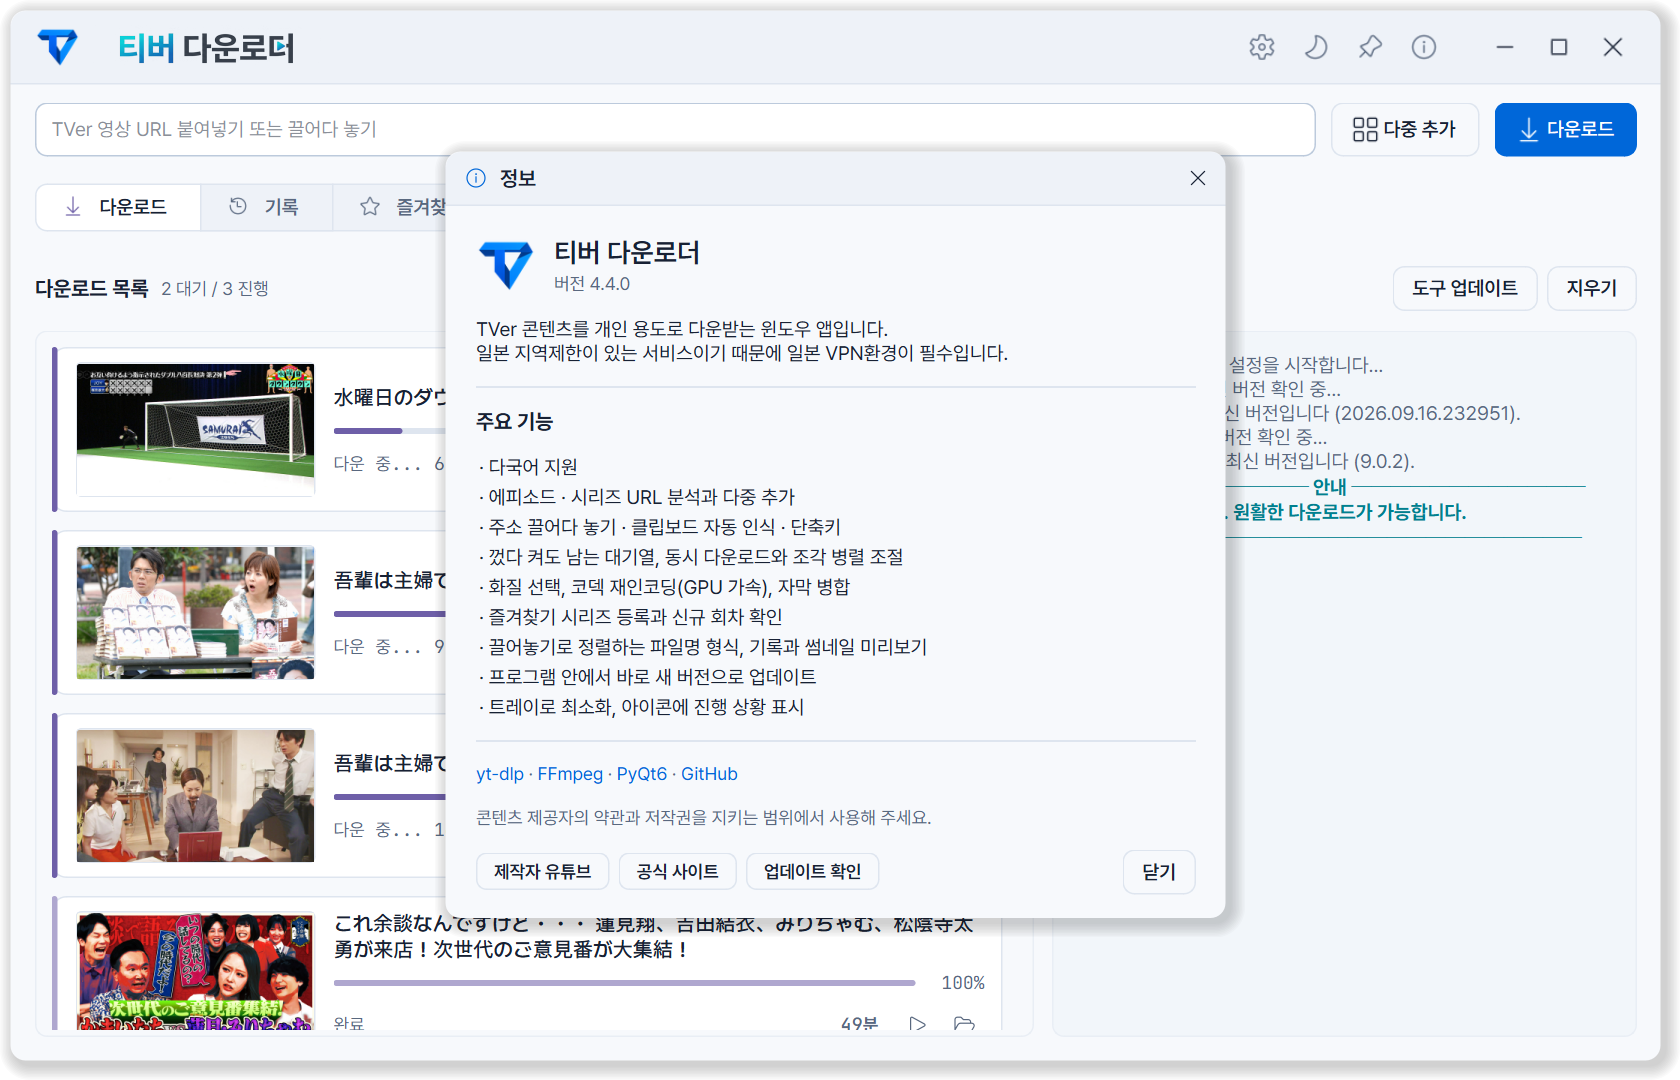
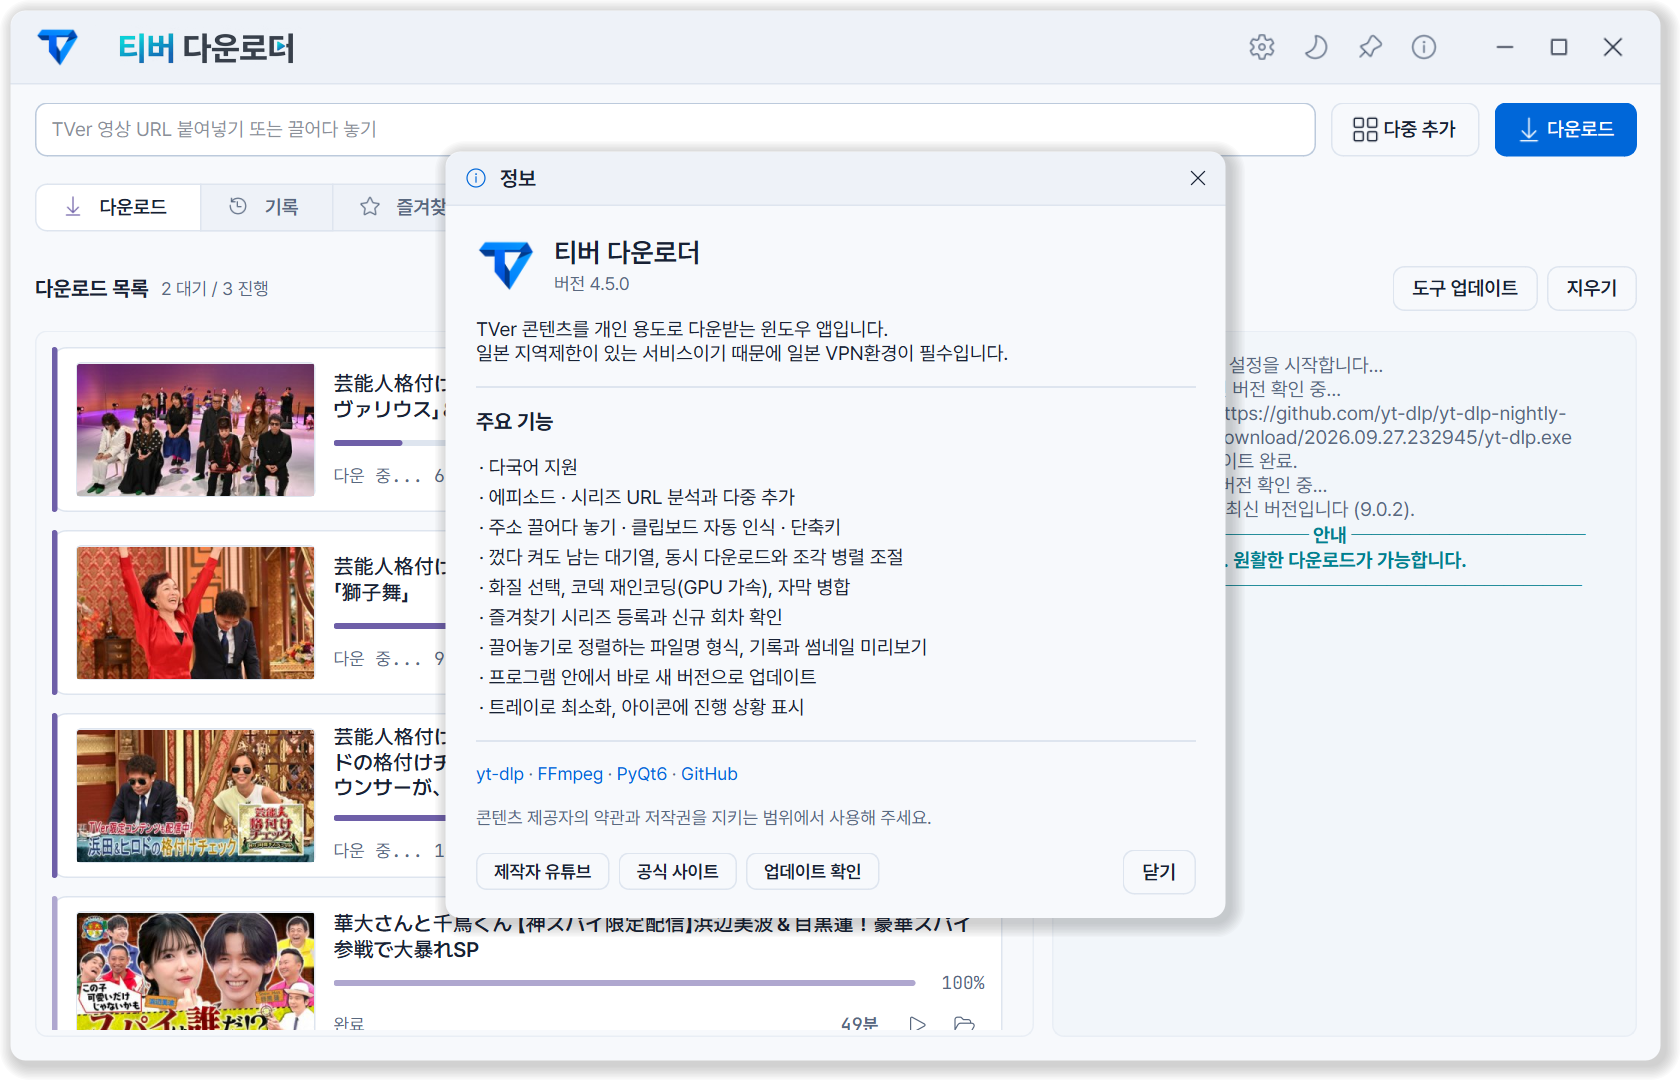
v4.5.0 — 표시기 임시 폴더 누수 수정, 옛 업데이트 안내창 정리, 타입 오류 정리
- 체크 표시·화살표 그림을 실행마다 새 tverdl_ind_* 폴더에 쓰고 지우지 않던 것을
  임시 폴더의 tverdl_indicators 하나로 모은다. 내용이 같으면 다시 쓰지 않고,
  옛 폴더는 메인 창이 켤 때 뒤쪽 스레드로 지운다(src/indicators.py).
- 그림을 만들지 못할 때 실패 모음에 check_menu가 빠져 QSS를 짓다 KeyError로
  앱이 뜨지 않던 것을 고친다.
- 쓰이지 않던 옛 업데이트 안내창(confirm_with_link, _LinkBox, maybe_show_update)과
  그 번역 키 19개(일곱 언어)를 걷어낸다.
- 앱 전역 Qt 준비(서체·팝업 모양·Qt 번역)를 src/app_setup.py로, 지역 안내를
  src/controllers/region_notice.py로, 트레이 메뉴와 툴팁을 TrayController로 옮긴다.
- Pylance standard 기준 타입 오류를 진입점과 src/ 전체에서 0건으로 맞춘다.
- README의 프로젝트 트리를 걷어내고, .gitignore를 tests/ 한 폴더 구조에 맞추고,
  소개 페이지 문구와 정보 창 스크린샷을 4.5.0에 맞춘다.

diff --git a/docs/index.html b/docs/index.html
@@ -525,7 +525,7 @@ try {
   </div>
 
   <section class="section shell" id="features" aria-labelledby="features-title">
-    <div class="section-heading reveal"><div><p class="eyebrow">Thoughtfully simple</p><h2 id="features-title">필요한 기능은 모두.<br>복잡한 과정은 가볍게.</h2></div><p>v4.4.0에서는 손상된 자료를 보존하고, 업데이트 확인부터 설치 완료까지 단계를 보여 줍니다.</p></div>
+    <div class="section-heading reveal"><div><p class="eyebrow">Thoughtfully simple</p><h2 id="features-title">필요한 기능은 모두.<br>복잡한 과정은 가볍게.</h2></div><p>주소를 가져오는 순간부터 파일이 정리될 때까지.<br>영상에 집중할 수 있도록, 나머지는 앱이 챙깁니다.</p></div>
     <div class="bento">
       <article class="card card-series reveal">
         <div><span class="card-icon"><svg class="icon" aria-hidden="true"><use href="#i-series"/></svg></span><h3>한 회부터,<br>시리즈 전체까지.</h3><p>주소를 복사하거나 끌어다 놓으세요. 시리즈에서 원하는 회차를 골라 한 번에 받고, 여러 조각을 동시에 내려받습니다.</p><span class="card-kicker">COPY. SELECT. DOWNLOAD.</span></div>

diff --git a/README.md b/README.md
@@ -225,101 +225,6 @@
 
 ---
 
-## 📁 프로젝트 트리구조
-
-```
-📦 TVerDownloader
-├─ 📄 TVerDownloader.py                     → Entry point / main window bootstrap
-├─ 📄 versioninfo.py                        → 앱 버전 한 줄 (배포 때 고치는 유일한 곳)
-├─ 📄 TVerDownloader.spec                   → PyInstaller 빌드 설정 (onedir)
-├─ 📂 src
-│  ├─ 📄 __init__.py
-│  ├─ 📄 utils.py                            → Config, 파일명 템플릿, 리소스 경로, 앱 이름 로컬라이징
-│  ├─ 📄 i18n.py                             → 화면 문구 다국어 (lang/*.ini 로드 · 언어 결정 · 계층 폴백)
-│  ├─ 📄 single_instance.py                  → 중복 실행 막기 (이름 있는 뮤텍스) · 두 번째 실행의 요청을 먼저 뜬 쪽에 전달
-│  ├─ 📄 download_manager.py                 → 대기열 및 동시 실행 관리
-│  ├─ 📄 metadata_prefetch.py                → 대기 중인 항목의 제목·썸네일 미리 받기
-│  ├─ 📄 encoding.py                         → 재인코딩 인자 선택 (코덱별 품질·오디오 비트레이트 — Qt 없음)
-│  ├─ 📄 series_parser.py                    → 시리즈 URL 분석 코디네이터
-│  ├─ 📄 input_sources.py                    → 주소가 들어오는 길 (입력창 · 클립보드 · 드래그 앤 드롭)
-│  ├─ 📄 tray_controller.py                  → 트레이 아이콘과 창의 드나듦 · 진행 상태 표시
-│  ├─ 📄 updater.py                          → GitHub releases/latest 확인
-│  ├─ 📄 self_update.py                      → 업데이트 꾸러미 검증 · 작업 폴더 · 적용 실행 · 대체 배치
-│  ├─ 📄 apply_update.py                     → 새 실행본에서 파일 교체 · 진행 알림 · 실패 시 되돌리기
-│  ├─ 📄 shortcuts.py                         → 단축키 정의·기본값·범위·충돌 판정
-│  ├─ 📄 dialogs.py                          → SettingsDialog (좌측 내비게이션 + 스택)
-│  ├─ 📄 about_dialog.py                     → 정보 창
-│  ├─ 📄 bulk_dialog.py                      → 다중 URL 추가 대화상자 (초기 목록 · 한 줄씩 추가)
-│  ├─ 📄 series_dialog.py                    → 시리즈 회차 선택 (썸네일 미리보기)
-│  ├─ 📄 message.py                          → 팔레트를 따르는 확인 창 · 알림 창
-│  ├─ 📄 autostart.py                        → 윈도우 시작 프로그램 등록/해제
-│  ├─ 📄 widgets.py                          → 다운로드/기록/즐겨찾기 카드 + 색 띠 + 빈 목록 안내
-│  ├─ 📄 thumbnails.py                       → 썸네일 스레드 풀(같은 그림은 한 번만 받음) + 디스크 캐시(목록용 사본 · 원본) + 메모리 캐시 (위젯 아님)
-│  ├─ 📄 qtparts.py                          → 공용 Qt 부품 — 팝업 모양 · 둥근 메뉴 · 2열 그리드 · 휠 스크롤
-│  ├─ 📄 window_frame.py                     → 제목 표시줄 없는 창 — 둥근 모서리 · 그림자 · 끌기 · 크기 조절 · 최대화 · 창 자리잡기
-│  ├─ 📄 history_store.py                    → urlhistory.json + 롤링 백업
-│  ├─ 📄 queue_store.py                      → queue.json — 못 받은 대기열을 다음 실행까지 남김
-│  ├─ 📄 favorites_store.py                  → favorites.json + 백업
-│  ├─ 📄 qss.py                              → 컬러 토큰(palette)과 라이트/다크 QSS 생성
-│  ├─ 📄 appicon.py                          → 앱 아이콘 — 공용 ICO 로드 + 트레이 진행률 채우기
-│  ├─ 📄 icons.py                            → UI 내부 Fluent 아이콘을 테마 색으로 렌더
-│  ├─ 📄 icons_data.py                       → 임베드된 SVG 25종 (자동 생성)
-│  ├─ 📄 indicators.py                       → 체크·라디오·스피너 화살표 이미지 생성
-│  ├─ 📄 titlelogo.py                        → 언어·테마별 헤더 로고 로드
-│  ├─ 📄 net_watch.py                        → 네트워크가 바뀔 때만 알림 (VPN을 켜면 지역 확인을 다시 부름)
-│  ├─ 📂 controllers                          → 메인 창이 도맡던 일을 성격별로 나눈 것
-│  │  ├─ 📄 __init__.py
-│  │  ├─ 📄 download_list.py                 → 다운로드 목록 탭 (카드 · 중지/제거 · 우클릭 메뉴)
-│  │  └─ 📄 library.py                       → 기록 탭과 즐겨찾기 탭 (다시 그리기 · 검색 · 스크롤로 이어 읽기)
-│  ├─ 📂 threads
-│  │  ├─ 📄 __init__.py
-│  │  ├─ 📄 ytdlp_run.py                     → 정보 조회용 yt-dlp 호출 · 통신 오류 재시도
-│  │  ├─ 📄 setup_thread.py                  → yt-dlp & FFmpeg 자동 설치 (→ bin/)
-│  │  ├─ 📄 series_parse_thread.py           → 시리즈 → 회차 목록 (키워드 제외 적용)
-│  │  ├─ 📄 download_thread.py               → 다운로드 + 병합 + 자막 + 진행률 파싱
-│  │  ├─ 📄 metadata_thread.py               → 받기 전 제목·썸네일 조회 (중간에 끊을 수 있다)
-│  │  ├─ 📄 region_thread.py                 → 현재 IP의 국가 확인 — 켤 때와 네트워크가 바뀔 때 (IP는 남기지 않음 · 실패하면 조용히)
-│  │  ├─ 📄 update_thread.py                 → 새 버전 내려받기 · 꾸러미 검증 · 압축 해제
-│  │  └─ 📄 conversion_thread.py             → 선호 코덱으로 재인코딩 (ffmpeg 호출 · 중단 처리)
-│  └─ 📂 ui
-│     ├─ 📄 __init__.py
-│     ├─ 📄 main_window_ui.py                → 메인 UI 구성 (헤더, 입력 바, 탭, 트레이)
-│     ├─ 📄 update_dialog.py                 → 업데이트 확인 · 받기 · 검증 · 압축 해제 안내
-│     ├─ 📄 apply_update_window.py           → 본체 종료 후 교체 진행 · 완료 · 실패 결과 창
-│     └─ 📄 update_flow.py                   → 업데이트 단계와 작업 목록의 공통 화면
-├─ 📂 assets
-│  ├─ 📂 fonts                                → Pretendard Variable / Pretendard JP / JetBrains Mono
-│  ├─ 📂 icons                                → Fluent SVG 원본 (빌드에는 미포함)
-│  ├─ 📂 title                                → 헤더 제목 로고 6종 (언어 3 × 테마 2)
-│  ├─ 🖼 applogo.png                          → T·V 심벌 원본 (1024px)
-│  └─ 🖼 appicon.ico                          → exe·창·트레이 공용 아이콘 (applogo.png에서 생성)
-├─ 📂 lang                                    → 번역 원본 7종 (korean · english · japanese · chinese · chinese_traditional · spanish · thai .ini)
-│                                              배포본에서는 `_internal/lang`에 실림 (고쳐 쓰는 곳)
-├─ 📄 readme.txt                              → 배포본 안내 (한국어 · 영어) · 언어 파일 만드는 법 (저장소에는 없음, 배포본 전용)
-│                                              배포할 때 `도움말(README).txt`로 이름이 바뀌어 exe 옆에 놓임
-├─ 🧾 실행 중 생성되는 항목
-│  ├─ 📂 bin/                                 → yt-dlp.exe, ffmpeg.exe, ffprobe.exe (자동 설치)
-│  ├─ 📄 downloader_config.json               → 사용자 설정
-│  ├─ 📄 urlhistory.json                      → 다운로드 기록
-│  ├─ 📄 queue.json                           → 아직 받지 못한 대기열 (다 받으면 비워짐)
-│  ├─ 📄 favorites.json                       → 즐겨찾기 시리즈
-│  ├─ 📂 thumbnails/                          → 썸네일 캐시 (`cards/` 목록용 작은 사본 · `originals/` 저장용 원본, 원본은 30일 뒤 자동 삭제)
-│  ├─ 📂 historybak/                          → 기록 백업 (최신 30개만 남김)
-│  ├─ 📂 favoritbak/                          → 즐겨찾기 백업 (최신 30개만 남김)
-│  ├─ 📂 update-workspace/                    → 업데이트 전 버전 백업 (다음 실행 때 자동 삭제)
-│  └─ 📄 TVerDownloader_crash.log             → 크래시 로그
-├─ 📄 .gitignore
-├─ 📄 .gitattributes                          → 줄 끝(EOL) 정규화 규칙
-├─ 📄 README.md
-├─ 📄 CHANGELOG.md                            → 버전별 변경 내역
-└─ 📂 docs                                    → 소개 페이지 (GitHub Pages 소스 = /docs)
-   ├─ 📄 index.html                           → deuxdoom.github.io/TVerDownloader
-   ├─ 🖼 favicon.ico
-   └─ 📂 img                                  → 페이지·README에 쓰는 화면 그림과 로고
-```
-
----
-
 ## 🤝 기여 및 응원
 
 - 버그 제보 및 코드 기여: [Issues](https://github.com/deuxdoom/TVerDownloader/issues)

diff --git a/CHANGELOG.md b/CHANGELOG.md
@@ -9,6 +9,17 @@ TVer Downloader v3.0.0 이후 버전별 변경 사항을 모아 둔 파일입니
 
 ---
 
+## [4.5.0] - 2026-09-29
+
+### 수정 (Fixed)
+
+- **프로그램을 켤 때마다 Windows 임시 폴더에 작은 폴더가 하나씩 쌓이던 문제를 고쳤습니다.** 체크 상자·화살표 같은 그림을 담아 두는 `tverdl_ind_`로 시작하는 폴더인데, 3.0.0부터 켤 때마다 새로 만들고 지우지 않아 켠 횟수만큼 남았습니다. 이제는 폴더 하나를 계속 다시 쓰고, 이미 쌓인 폴더는 프로그램을 켤 때 함께 정리합니다.
+- **Windows 임시 폴더에 쓸 수 없는 환경에서 프로그램이 켜지지 않던 문제를 고쳤습니다.** 체크 표시 같은 그림을 만들지 못하면 화면 모양을 정하는 단계에서 오류가 났습니다. 이제는 그 그림만 빠진 채로 정상적으로 켜집니다.
+
+[4.5.0 코드 수정 내역](https://github.com/deuxdoom/TVerDownloader/compare/v4.4.0...v4.5.0)
+
+---
+
 ## [4.4.0] - 2026-09-26
 
 ### 새 기능 (Added)
